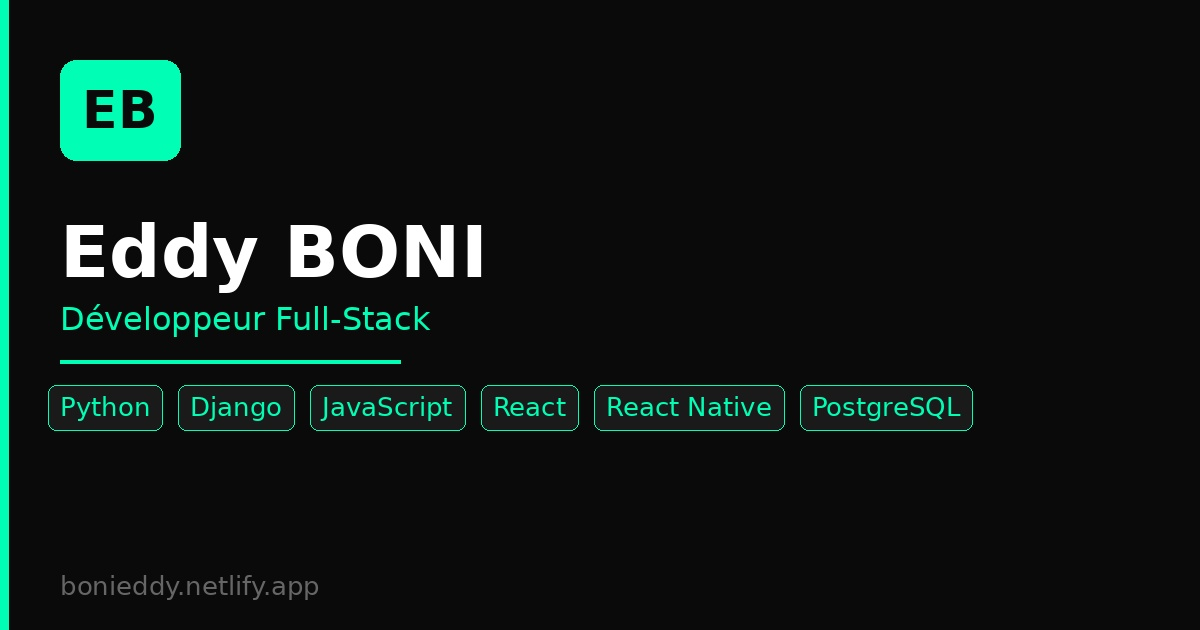
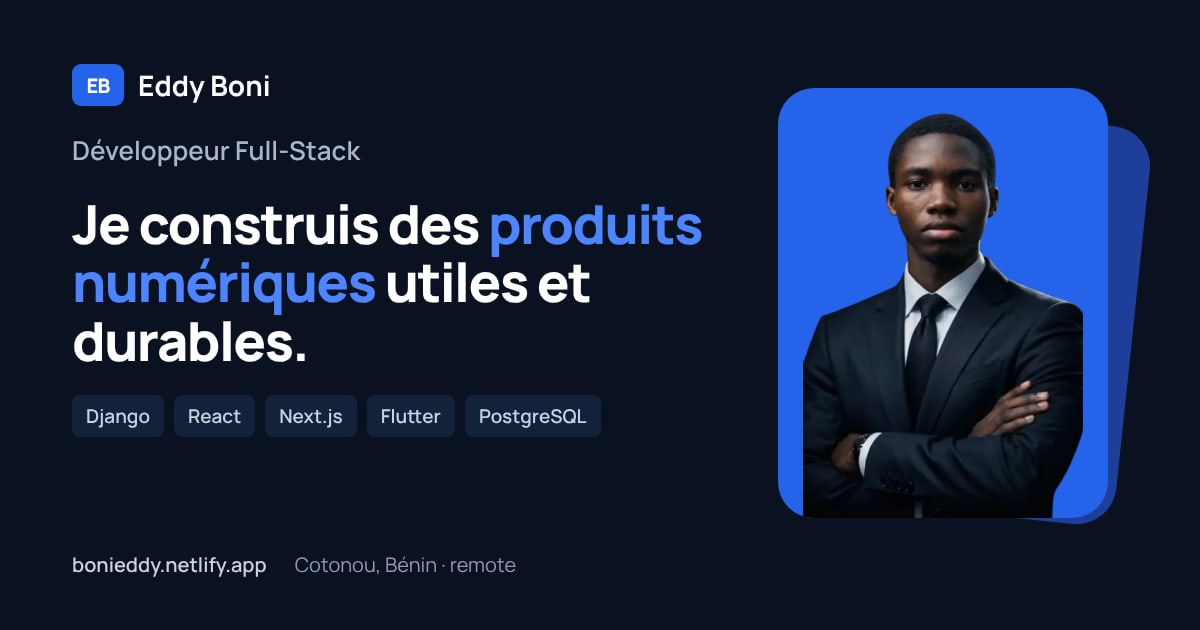
feat(seo): new share images in the site's design, French and English
- opengraph.jpg redrawn (navy/blue, real portrait, current stack: no more React Native)
- new opengraph-en.jpg used by every English page
- ?v=2 on the image URL so social networks fetch the new image instead of their cached copy

Claude-Session: https://claude.ai/code/session_012XQcYn9M5a6uGzZbi6HWug

diff --git a/src/seo/head.ts b/src/seo/head.ts
@@ -20,23 +20,29 @@ const HOME_META: Record<Language, { title: string; description: string }> = {
 };
 
 const OG_LOCALES: Record<Language, string> = { fr: "fr_FR", en: "en_US" };
-const DEFAULT_OG_IMAGE = "/opengraph.jpg";
+// Default share image per language. Bump OG_VERSION when the images change: the new URL makes
+// LinkedIn, Facebook and WhatsApp fetch the image again instead of showing their cached copy.
+const OG_VERSION = "2";
+const DEFAULT_OG_IMAGES: Record<Language, string> = {
+  fr: `/opengraph.jpg?v=${OG_VERSION}`,
+  en: `/opengraph-en.jpg?v=${OG_VERSION}`,
+};
 
 function pageMeta(page: Page, language: Language) {
   switch (page.kind) {
     case "home":
-      return { ...HOME_META[language], image: DEFAULT_OG_IMAGE };
+      return { ...HOME_META[language], image: DEFAULT_OG_IMAGES[language] };
     case "project": {
       const study = CASE_STUDIES[page.id];
       const content = study.content[language];
-      return { title: content.metaTitle, description: content.metaDescription, image: study.ogImage ?? DEFAULT_OG_IMAGE };
+      return { title: content.metaTitle, description: content.metaDescription, image: study.ogImage ?? DEFAULT_OG_IMAGES[language] };
     }
     case "service": {
       const content = SERVICES[page.id].content[language];
-      return { title: content.metaTitle, description: content.metaDescription, image: DEFAULT_OG_IMAGE };
+      return { title: content.metaTitle, description: content.metaDescription, image: DEFAULT_OG_IMAGES[language] };
     }
     case "notFound":
-      return { title: `${fr.notFound.title} | Eddy Boni`, description: fr.notFound.description, image: DEFAULT_OG_IMAGE };
+      return { title: `${fr.notFound.title} | Eddy Boni`, description: fr.notFound.description, image: DEFAULT_OG_IMAGES.fr };
   }
 }
 
